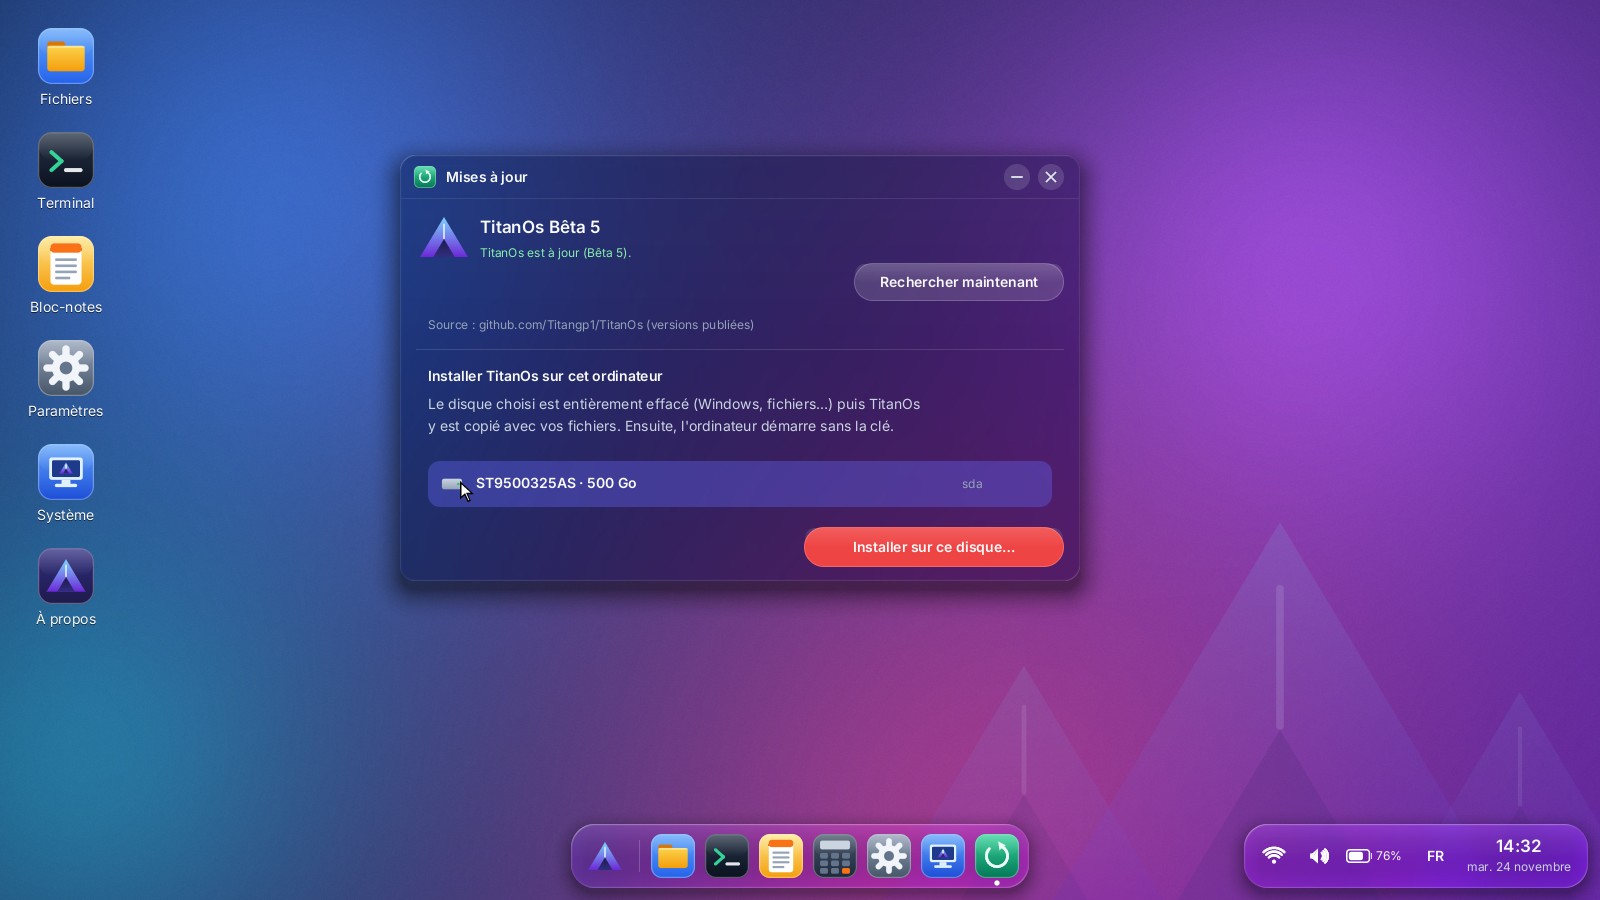
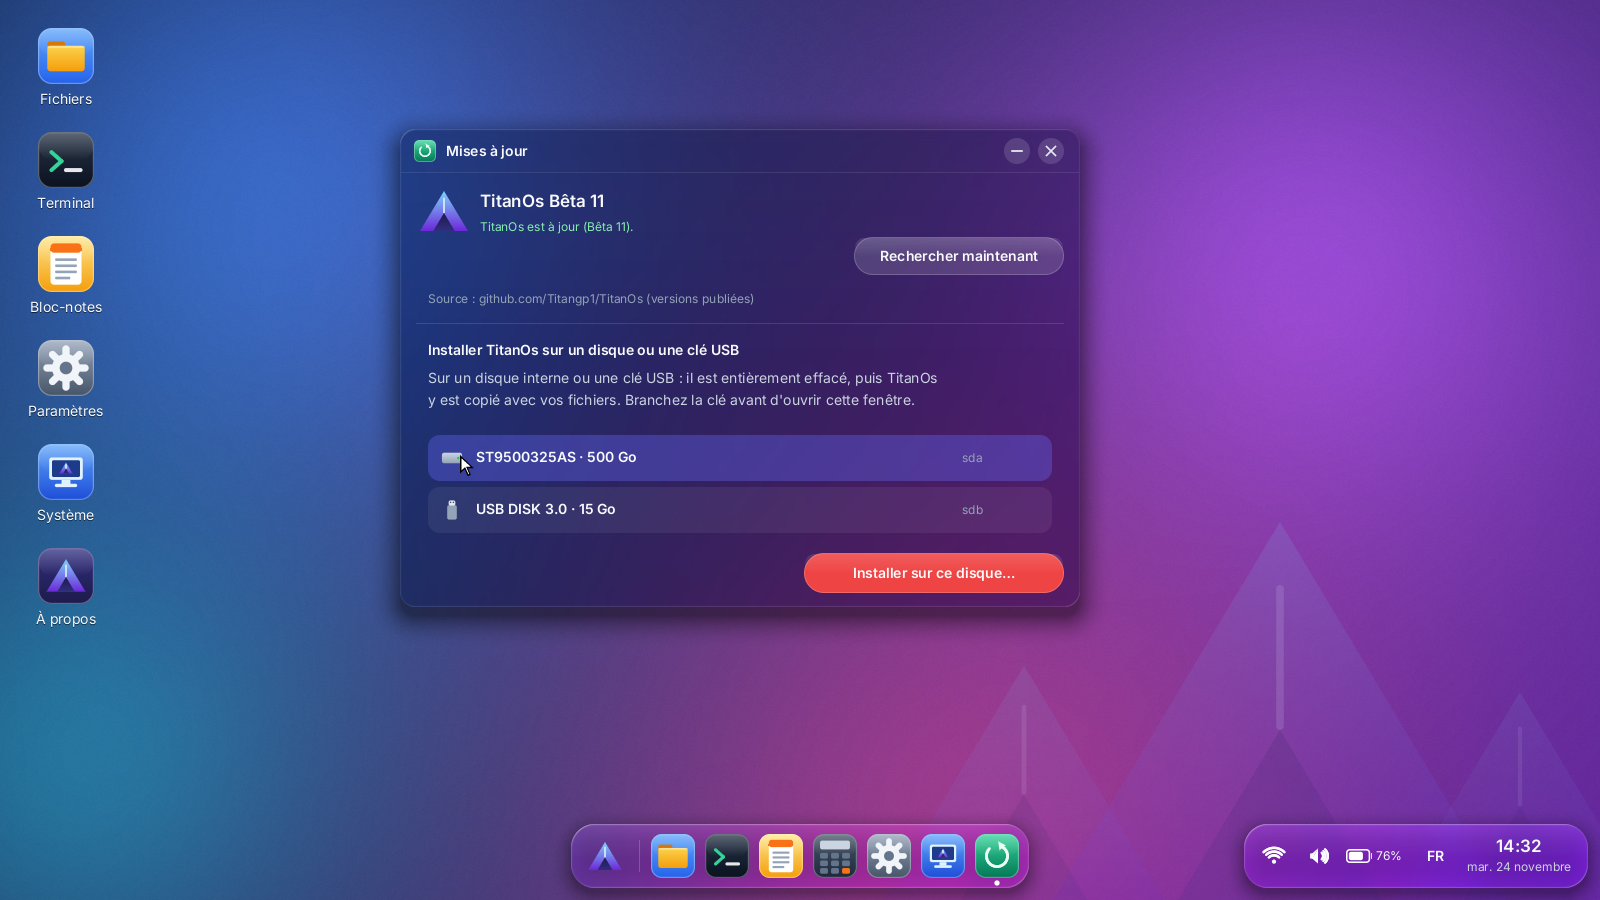
TitanOs bêta 11 : installation vers une clé USB ou un autre disque
L'installation n'est plus réservée au démarrage depuis une clé : tous les
disques et clés (sauf celui en cours) sont proposés, liste rafraîchie.

Changed region(s): [[0.2188, 0.3111, 0.6875, 0.7156], [0.2188, 0.1244, 0.6875, 0.28], [0.5312, 0.2489, 0.6875, 0.3422]]

diff --git a/src/core/updapp.c b/src/core/updapp.c
@@ -42,20 +42,16 @@ static void upd_draw(window_t *w, canvas_t *c) {
 
     /* installation sur le disque */
     gfx_fill(c, R(16, 150, c->w - 32, 1), 0x20FFFFFF);
-    text_draw(c, &font_bold, 28, 168, "Installer TitanOs sur cet ordinateur", C_TEXT);
+    text_draw(c, &font_bold, 28, 168, "Installer TitanOs sur un disque ou une clé USB", C_TEXT);
     int ipc = -1, ist = plat_install_state(msg, sizeof msg, &ipc);
-    if (!s->can_install) {
-        text_draw(c, &font_body, 28, 198, "TitanOs fonctionne déjà depuis le disque de cet ordinateur.", C_TEXT2);
-        return;
-    }
-    text_draw(c, &font_body, 28, 196, "Le disque choisi est entièrement effacé (Windows, fichiers…) puis TitanOs", C_TEXT2);
-    text_draw(c, &font_body, 28, 218, "y est copié avec vos fichiers. Ensuite, l'ordinateur démarre sans la clé.", C_TEXT2);
-    if (!s->ndisks) text_draw(c, &font_body, 28, 262, "Aucun disque interne utilisable n'a été trouvé.", C_MUTED);
+    text_draw(c, &font_body, 28, 196, "Sur un disque interne ou une clé USB : il est entièrement effacé, puis TitanOs", C_TEXT2);
+    text_draw(c, &font_body, 28, 218, "y est copié avec vos fichiers. Branchez la clé avant d'ouvrir cette fenêtre.", C_TEXT2);
+    if (!s->ndisks) text_draw(c, &font_body, 28, 262, "Aucun autre disque ni clé USB trouvé.", C_MUTED);
     for (int i = 0; i < s->ndisks; i++) {
         rect_t r = disk_row(c, i);
         bool sel = i == s->sel;
         gfx_rrect(c, r.x, r.y, r.w, r.h, 12, sel ? (accent() & 0xFFFFFF) | 0x60000000 : i == s->hover ? 0x1EFFFFFF : 0x10FFFFFF);
-        draw_icon(c, ICON_DISK, r.x + 12, r.y + 11, 24);
+        draw_icon(c, s->disks[i].removable ? ICON_USB : ICON_DISK, r.x + 12, r.y + 11, 24);
         char sz[32], line[96];
         fmt_bytes(sz, sizeof sz, s->disks[i].bytes);
         snprintf(line, sizeof line, "%s · %s", s->disks[i].model, sz);
@@ -87,7 +83,7 @@ static void upd_event(window_t *w, const event_t *e) {
     if (e->type == EV_MOTION) {
         int h = H_NONE;
         if (rect_has(check_rect(c), e->x, e->y)) h = H_CHECK;
-        if (s->can_install) {
+        {
             for (int i = 0; i < s->ndisks; i++) if (rect_has(disk_row(c, i), e->x, e->y)) h = i;
             if (s->ndisks && rect_has(install_rect(c), e->x, e->y)) h = H_INSTALL;
         }
@@ -105,8 +101,8 @@ static void upd_event(window_t *w, const event_t *e) {
         disk_info_t *d = &s->disks[s->sel];
         char sz[32], text[300];
         fmt_bytes(sz, sizeof sz, d->bytes);
-        snprintf(text, sizeof text, "Tout le contenu du disque « %s » (%s) sera effacé définitivement, "
-                 "y compris Windows et vos fichiers. TitanOs y sera installé. Continuer ?", d->model, sz);
+        snprintf(text, sizeof text, "Tout le contenu %s « %s » (%s) sera effacé définitivement. "
+                 "TitanOs y sera installé avec vos fichiers. Continuer ?", d->removable ? "de la clé" : "du disque", d->model, sz);
         dlg_confirm("Installer TitanOs", text, "Effacer et installer", confirm_cb, w);
     }
     wm_invalidate(w);
@@ -116,6 +112,15 @@ static void upd_tick(window_t *w, uint64_t now) {
     upd_t *s = w->data;
     if (now < s->next) return;
     s->next = now + 400;                 /* l'état vient d'un autre processus : on le relit souvent */
+    static uint64_t next_disks;
+    if (now >= next_disks && plat_install_state(NULL, 0, NULL) != UPD_INSTALLING) {   /* clé branchée entre-temps */
+        next_disks = now + 3000;
+        char keep[16] = "";
+        if (s->sel >= 0 && s->sel < s->ndisks) strlcpy(keep, s->disks[s->sel].dev, sizeof keep);
+        s->ndisks = plat_install_disks(s->disks, MAX_DISKS);
+        s->sel = -1;
+        for (int i = 0; i < s->ndisks; i++) if (!strcmp(s->disks[i].dev, keep)) s->sel = i;
+    }
     wm_invalidate(w);
 }
 
@@ -128,10 +133,10 @@ void app_update_open(void) {
     if (!s) return;
     s->hover = H_NONE;
     s->sel = -1;
-    s->can_install = plat_install_possible();
-    if (s->can_install) s->ndisks = plat_install_disks(s->disks, MAX_DISKS);
+    s->can_install = true;                   /* toujours : vers un disque ou une clé USB */
+    s->ndisks = plat_install_disks(s->disks, MAX_DISKS);
     if (s->ndisks == 1) s->sel = 0;
-    window_t *w = wm_open("Mises à jour", ICON_UPDATE, 680, 330 + MAX(1, s->ndisks) * 52, WF_SINGLE);
+    window_t *w = wm_open("Mises à jour", ICON_UPDATE, 680, 330 + MAX(2, s->ndisks) * 52, WF_SINGLE);
     if (!w) { free(s); return; }
     w->data = s;
     w->draw = upd_draw;

diff --git a/src/linux/update.c b/src/linux/update.c
@@ -333,18 +333,23 @@ static void disk_cb(const char *name, int type, void *ctx) {
     if (!strcmp(name, c->boot)) return;
     char p[96], v[64];
     snprintf(p, sizeof p, "/sys/block/%s/removable", name);
-    if (read_file(p, v, sizeof v) > 0 && v[0] == '1') return;
+    bool rem = read_file(p, v, sizeof v) > 0 && v[0] == '1';
+    snprintf(p, sizeof p, "/sys/block/%s", name);
+    char link[256];
+    long lr = sys_readlink(p, link, sizeof link - 1);
+    if (lr > 0) { link[lr] = 0; if (strstr(link, "/usb")) rem = true; }
     snprintf(p, sizeof p, "/sys/block/%s/size", name);
     if (read_file(p, v, sizeof v) <= 0) return;
     uint64_t bytes = (uint64_t)strtol(v, NULL, 10) * 512;
-    if (bytes < (4ull << 30)) return;                   /* au moins 4 Go */
+    if (bytes < (1ull << 30)) return;                   /* au moins 1 Go */
     disk_info_t *d = &c->list[c->n++];
     memset(d, 0, sizeof *d);
     strlcpy(d->dev, name, sizeof d->dev);
     d->bytes = bytes;
+    d->removable = rem;
     snprintf(p, sizeof p, "/sys/block/%s/device/model", name);
     if (read_file(p, v, sizeof v) > 0) strlcpy(d->model, trim(v), sizeof d->model);
-    if (!d->model[0]) strlcpy(d->model, "Disque interne", sizeof d->model);
+    if (!d->model[0]) strlcpy(d->model, rem ? "Clé USB" : "Disque interne", sizeof d->model);
 }
 
 int plat_install_disks(disk_info_t *list, int max) {
@@ -424,7 +429,7 @@ static void install_main(void *arg) {
     sys_sync();
     if (!ok) { say(UPD_ERROR, -1, "Écriture de la table de partitions impossible."); return; }
     klog("installation terminée sur %s", dst);
-    say(UPD_DONE, 100, "TitanOs est installé. Éteignez, retirez la clé puis rallumez l'ordinateur.");
+    say(UPD_DONE, 100, "TitanOs est installé. Pour démarrer dessus, choisissez ce disque au démarrage de l'ordinateur.");
 }
 
 bool plat_install_start(const char *dev) {

diff --git a/src/sim/sim.c b/src/sim/sim.c
@@ -58,7 +58,7 @@ int plat_listdir(const char *path, dirent_t **out) {
     return n;
 }
 int plat_readfile(const char *path, char **data, size_t *len) {
-    const char *t = "Bienvenue dans TitanOs (bêta 10) !\n\nCe Bloc-notes enregistre vos textes sur la clé USB.\n"
+    const char *t = "Bienvenue dans TitanOs (bêta 11) !\n\nCe Bloc-notes enregistre vos textes sur la clé USB.\n"
                     "Le système tourne sur le noyau Linux, mais tout ce que vous voyez est fait maison.\n";
     if (str_ends(path, ".cfg")) return -1;
     *len = strlen(t);
@@ -81,7 +81,7 @@ int plat_pty_read(int id, char *buf, int n) {
     if (pty_sent[id & 7]) return 0;
     pty_sent[id & 7] = true;
     const char *s =
-        "\x1b[1;35mTitanOs bêta 10\x1b[0m - noyau Linux 6.18.65 - BusyBox 1.37\r\n"
+        "\x1b[1;35mTitanOs bêta 11\x1b[0m - noyau Linux 6.18.65 - BusyBox 1.37\r\n"
         "Tapez \x1b[1maide\x1b[0m pour la liste des commandes.\r\n\r\n"
         "\x1b[1;32mtitan\x1b[0m@\x1b[36mtitanos\x1b[0m:\x1b[1;34m~\x1b[0m$ ls\r\n"
         "\x1b[1;34mDocuments\x1b[0m  \x1b[1;34mImages\x1b[0m  \x1b[1;34mMusique\x1b[0m  Bienvenue.txt  vacances.png\r\n"
@@ -231,7 +231,13 @@ int  plat_install_disks(disk_info_t *list, int max) {
     strlcpy(list->dev, "sda", sizeof list->dev);
     strlcpy(list->model, "ST9500325AS", sizeof list->model);
     list->bytes = 500107862016ull;
-    return 1;
+    if (max < 2) return 1;
+    memset(list + 1, 0, sizeof *list);
+    strlcpy(list[1].dev, "sdb", sizeof list[1].dev);
+    strlcpy(list[1].model, "USB DISK 3.0", sizeof list[1].model);
+    list[1].bytes = 15854469120ull;
+    list[1].removable = true;
+    return 2;
 }
 bool plat_install_start(const char *dev) { (void)dev; return true; }
 int  plat_install_state(char *msg, int n, int *percent) { if (msg && n) msg[0] = 0; if (percent) *percent = -1; return UPD_IDLE; }

diff --git a/src/core/base.h b/src/core/base.h
@@ -25,8 +25,8 @@ typedef __builtin_va_list va_list;
 #define false 0
 #define NULL  ((void *)0)
 
-#define TITANOS_VERSION "Bêta 10"
-#define TITANOS_BUILD   10             /* numéro de version, comparé aux mises à jour publiées */
+#define TITANOS_VERSION "Bêta 11"
+#define TITANOS_BUILD   11             /* numéro de version, comparé aux mises à jour publiées */
 #define countof(a) ((int)(sizeof(a) / sizeof((a)[0])))
 #define MIN(a, b) ((a) < (b) ? (a) : (b))
 #define MAX(a, b) ((a) > (b) ? (a) : (b))
@@ -163,11 +163,11 @@ void  plat_diag(char *buf, int n);                   /* ligne de diagnostic (bê
 
 /* mises à jour (GitHub) et installation sur le disque interne */
 enum { UPD_IDLE, UPD_CHECKING, UPD_UPTODATE, UPD_DOWNLOADING, UPD_INSTALLING, UPD_DONE, UPD_ERROR };
-typedef struct { char dev[16]; char model[48]; uint64_t bytes; } disk_info_t;
+typedef struct { char dev[16]; char model[48]; uint64_t bytes; bool removable; } disk_info_t;
 void  plat_update_check(bool automatic);                   /* recherche, télécharge et installe */
 int   plat_update_state(char *msg, int n, int *percent);   /* UPD_* ; percent -1 si inconnu */
 bool  plat_install_possible(void);                         /* démarré depuis une clé USB */
-int   plat_install_disks(disk_info_t *list, int max);      /* disques internes utilisables */
+int   plat_install_disks(disk_info_t *list, int max);      /* disques et clés utilisables (sauf celui en cours) */
 bool  plat_install_start(const char *dev);                 /* efface le disque et y copie TitanOs */
 int   plat_install_state(char *msg, int n, int *percent);
 

diff --git a/tools/buildos.py b/tools/buildos.py
@@ -344,7 +344,7 @@ def build(repo, B):
 
     print("[image disque]")
     import mkimage
-    readme = ("TitanOs beta 10 - systeme d'exploitation sur base Linux\r\n\r\n"
+    readme = ("TitanOs beta 11 - systeme d'exploitation sur base Linux\r\n\r\n"
               "TITANOS\\VMLINUZ     noyau Linux\r\n"
               "TITANOS\\INITRD.IMG  systeme TitanOs (bureau, pilotes, BusyBox)\r\n"
               "EFI\\BOOT\\BOOTX64.EFI chargeur UEFI (Secure Boot desactive)\r\n"
@@ -360,6 +360,6 @@ def build(repo, B):
     write_update(out, info, s2, vmlinuz, initrd, bootimg.build(ttc))
     print(f"  noyau au secteur {info['kernel_lba']}, initramfs au secteur {info['initrd_lba']}, "
           f"chargé à {info['initrd_addr'] >> 20} Mo ; {info['free_mb']} Mo libres pour vos fichiers")
-    print(f"\nTitanOs bêta 10 est prêt :")
+    print(f"\nTitanOs bêta 11 est prêt :")
     print(f"  build/titanos.img   image pour clé USB ({DISK_MB} Mo, démarre en BIOS et en UEFI)")
     print(f"  build/titanos.vhd   disque virtuel (VirtualBox, Hyper-V génération 1)")

diff --git a/src/linux/main.c b/src/linux/main.c
@@ -360,7 +360,7 @@ static void prepare_home(bool on_key, const char *storage) {
     if (first) {
         char p[256];
         snprintf(p, sizeof p, "%s/Bienvenue.txt", home);
-        const char *t = "Bienvenue dans TitanOs (bêta 10) !\n\n"
+        const char *t = "Bienvenue dans TitanOs (bêta 11) !\n\n"
                         "TitanOs tourne sur le noyau Linux : Linux fournit les pilotes (écran, clavier,\n"
                         "USB, Wi-Fi, son...), et tout le reste est écrit pour TitanOs.\n\n"
                         "Vos fichiers sont gardés sur la clé USB, dans le dossier Utilisateur.\n"

diff --git a/README.md b/README.md
@@ -1,4 +1,4 @@
-# TitanOs — bêta 10
+# TitanOs — bêta 11
 
 Système d'exploitation **léger** sur base Linux, avec un bureau **liquid glass** écrit en C,
 sans bibliothèque, et pensé pour le **Sony VAIO série F** (Core i7, GeForce GT 330M).
@@ -71,7 +71,7 @@ Raccourcis : touche Windows (menu et recherche), Alt+Tab, Alt+F4, Ctrl+Alt+T (Te
 
 ## Installer sur une clé USB
 
-1. Télécharger `titanos-beta10.img.zip` dans les [versions publiées](../../releases), puis le décompresser.
+1. Télécharger `titanos-beta11.img.zip` dans les [versions publiées](../../releases), puis le décompresser.
 2. Écrire `titanos.img` sur une clé USB avec **Rufus, en mode DD**. Cela efface la clé.
    Prenez une clé d'au moins 2 Go : la place libre accueillera les applications.
 3. **Sony VAIO (BIOS)** : touche F2, onglet Boot, activer **External Device Boot** et mettre la clé
@@ -172,6 +172,10 @@ tools/                téléchargement Alpine, polices, initramfs, image disque,
 - **Sur la clé**, dès qu'elle est trouvée, TitanOs écrit `journal-titanos.txt` toutes les 5 secondes
   pendant 4 minutes : messages du noyau, pilotes, périphériques, et l'endroit où chaque processus attend.
   Branchez la clé sur Windows et envoyez ce fichier.
+
+## Nouveautés de la bêta 11
+
+- **Installer sur une clé USB ou un autre disque**, même depuis un TitanOs déjà installé : l'application Mises à jour liste tous les disques et clés (sauf celui en cours), et se met à jour quand on branche une clé.
 
 ## Nouveautés de la bêta 10
 
